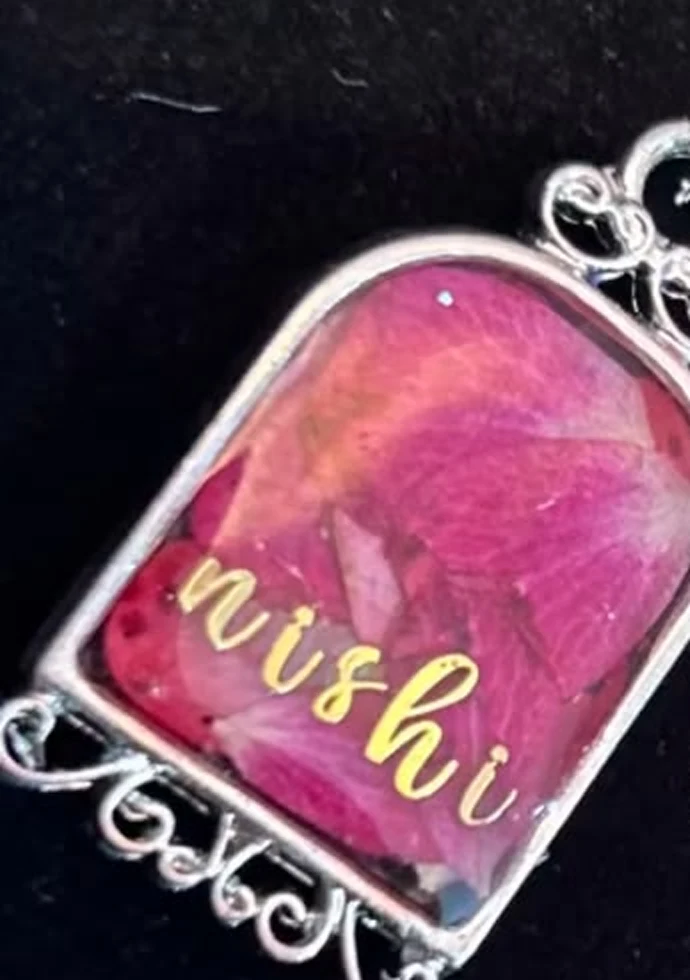
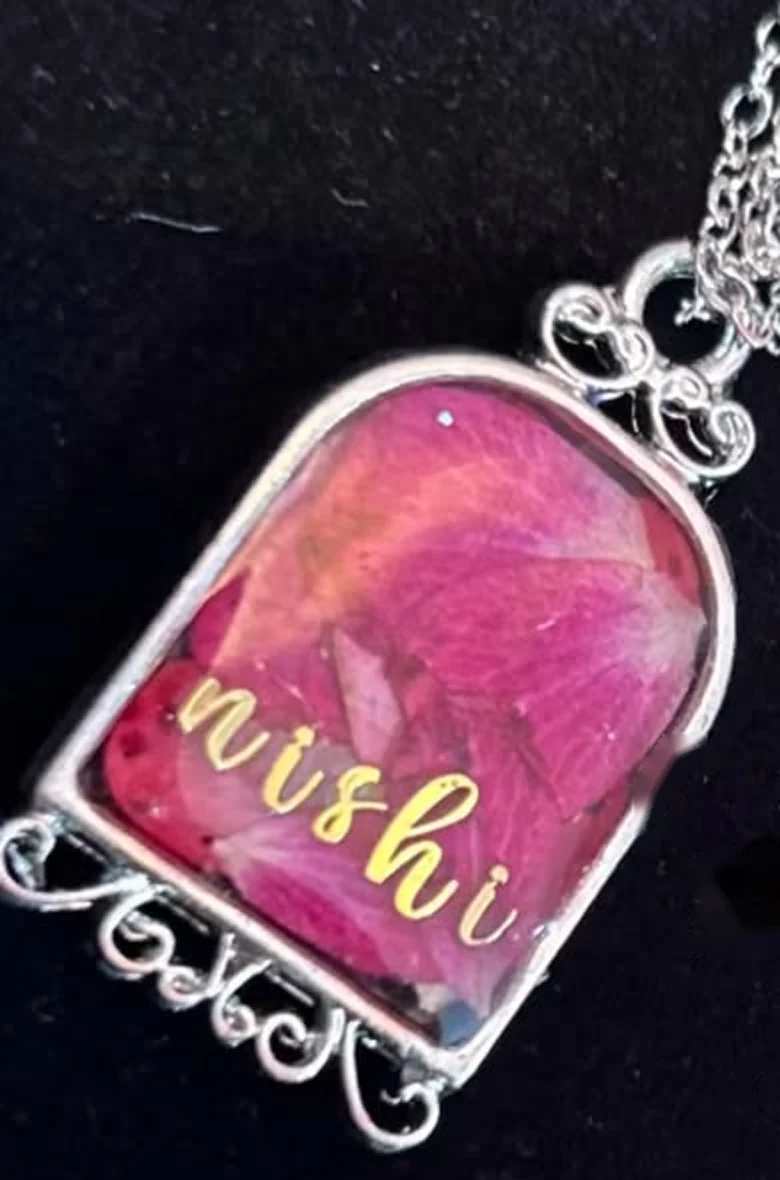
Show the whole name pendant; open films full screen on tap (#31)
- Re-crop the Nishi pendant photo wider so the complete pendant shows,
  with a landscape version on black velvet for the customisation card.
- Tapping a film now opens it full screen with controls, turning phones
  to landscape where the browser allows; controls hide again on exit.

Claude-Session: https://claude.ai/code/session_014M7MAr8Mwe8YGKys3HYAeP

diff --git a/index.html b/index.html
@@ -1,6 +1,6 @@
 <!DOCTYPE html>
 <html lang="en">
-<head><meta charset="UTF-8"><meta name="viewport" content="width=device-width,initial-scale=1"><meta name="theme-color" content="#f5f1e9"><title>Mystic Moldings — Resin art & flower preservation</title><link rel="preconnect" href="https://fonts.googleapis.com"><link rel="preconnect" href="https://fonts.gstatic.com" crossorigin><link href="https://fonts.googleapis.com/css2?family=DM+Sans:wght@400;500;600;700&family=Manrope:wght@400;500;600&family=Playfair+Display:ital,wght@0,400;0,500;0,600;1,400;1,500&display=swap" rel="stylesheet"><meta name="description" content="Mystic Moldings: handcrafted resin art and flower preservation. Demi-fine jewellery, custom décor and personalised gifts for loved ones. DM @mystic_moldings on Instagram to order."><link rel="icon" type="image/png" sizes="64x64" href="images/favicon-64.png"><link rel="apple-touch-icon" href="images/logo-192.png"><link rel="stylesheet" href="styles.css?v=202609290758"></head>
+<head><meta charset="UTF-8"><meta name="viewport" content="width=device-width,initial-scale=1"><meta name="theme-color" content="#f5f1e9"><title>Mystic Moldings — Resin art & flower preservation</title><link rel="preconnect" href="https://fonts.googleapis.com"><link rel="preconnect" href="https://fonts.gstatic.com" crossorigin><link href="https://fonts.googleapis.com/css2?family=DM+Sans:wght@400;500;600;700&family=Manrope:wght@400;500;600&family=Playfair+Display:ital,wght@0,400;0,500;0,600;1,400;1,500&display=swap" rel="stylesheet"><meta name="description" content="Mystic Moldings: handcrafted resin art and flower preservation. Demi-fine jewellery, custom décor and personalised gifts for loved ones. DM @mystic_moldings on Instagram to order."><link rel="icon" type="image/png" sizes="64x64" href="images/favicon-64.png"><link rel="apple-touch-icon" href="images/logo-192.png"><link rel="stylesheet" href="styles.css?v=202609290941"></head>
 <body>
 <div class="announcement">Handcrafted resin art & flower preservation. <span>DM us on Instagram to order.</span></div>
 <header class="header"><a class="wordmark" href="#" aria-label="Mystic Moldings home"><img class="brand-logo" src="images/logo-header.webp" width="160" height="160" alt="">mystic moldings<span>RESIN ART & KEEPSAKES</span></a><nav aria-label="Main navigation"><a href="#collections">Our collections</a><a href="#keepsakes">Your memories, preserved</a><a href="#about">Our story</a><a href="contact.html">Contact</a></nav><a class="bag-button" id="open-bag" href="cart.html" aria-label="Open your cart">Cart <span id="bag-count">0</span><svg viewBox="0 0 24 24" fill="none" stroke="currentColor" stroke-width="1.4"><path d="M5 8h14l1 13H4L5 8Z"/><path d="M8 9V6a4 4 0 0 1 8 0v3"/></svg></a></header>
@@ -12,7 +12,7 @@
 <section class="sold-out section" aria-labelledby="sold-title"><div class="section-top"><div><p class="eyebrow">LOVED &amp; GONE</p><h2 id="sold-title">Sold out,<br><em>but never forgotten.</em></h2></div><div class="craft-films-aside"><p>Some pieces find their home within hours. Fell for one of these? We can make something just like it for you.</p><a class="text-link" href="https://www.instagram.com/mystic_moldings/" target="_blank" rel="noopener noreferrer">DM us for a similar piece <span aria-hidden="true">↗</span></a></div></div><div class="sold-grid"><figure><img src="images/photos/sold-sunflower-pendant.webp" alt="Sunflower pendant, sold out" loading="lazy"><span class="sold-chip">Sold out</span><figcaption>Sunflower pendant</figcaption></figure><figure><img src="images/photos/sold-flower-pendant.webp" alt="Real flower pendant, sold out" loading="lazy"><span class="sold-chip">Sold out</span><figcaption>Real flower pendant</figcaption></figure><figure><img src="images/photos/sold-fern-orb.webp" alt="Glow-in-the-dark fern, sold out" loading="lazy"><span class="sold-chip">Sold out</span><figcaption>Glow-in-the-dark fern</figcaption></figure><figure><img src="images/photos/sold-glitter-pendant.webp" alt="Rose-gold glitter pendant, sold out" loading="lazy"><span class="sold-chip">Sold out</span><figcaption>Rose-gold glitter pendant</figcaption></figure><figure><img src="images/photos/sold-rose-bookmark.webp" alt="Real rose bookmark, sold out" loading="lazy"><span class="sold-chip">Sold out</span><figcaption>Real rose bookmark</figcaption></figure><figure><img src="images/photos/sold-heart-charm-bracelet.webp" alt="Heart charm bracelet, sold out" loading="lazy"><span class="sold-chip">Sold out</span><figcaption>Heart charm bracelet</figcaption></figure></div></section>
 <section class="date-night section" aria-labelledby="date-night-title"><div class="date-night-image"><img src="images/photos/date-night-poster.webp" alt="Mystic Moldings poster: a gold pendant holding a pressed daisy and wildflowers, on red velvet, with the words Enjoy your perfect date" loading="lazy"></div><div class="date-night-copy"><p class="eyebrow">THE DATE-NIGHT EDIT</p><h2 id="date-night-title">Enjoy your perfect date.<br><em>Then keep it forever.</em></h2><p>Gift a pressed-flower pendant for the evening, or bring us the flowers from it and we’ll hold them in resin for good. Either way, the night stays with you.</p><div class="date-night-actions"><a class="button dark" href="#shop" data-shop-filter="Necklaces">Shop necklaces <span>↗</span></a><button class="text-link" data-keepsake="Rose / flower bouquet">Preserve your date flowers <span>↗</span></button></div></div></section>
 <section class="keepsakes section" id="keepsakes"><div class="section-top"><div><p class="eyebrow">BECAUSE IT WAS NEVER JUST A FLOWER</p><h2>A little keepsake.<br><em>A whole lot of meaning.</em></h2></div><p>Every memory has a story.<br>Here’s how yours could live on.</p></div><div class="story-grid"><article class="story-card"><div class="story-image"><img src="images/photos/wedding-flower-lamp-story.webp" alt="A glowing resin night lamp holding preserved wedding roses, pearls and the couple’s names and wedding date" loading="lazy"><span>THE WEDDING KEEPSAKE</span></div><h3>From “I do” to always.</h3><p>The varmala from your wedding. The bouquet you held a little tighter. A piece of that beautiful beginning, preserved for all the days ahead.</p><button class="story-link" data-keepsake="Wedding flowers / varmala">Preserve your wedding flowers <span>↗</span></button></article><article class="story-card"><div class="story-image"><img src="images/photos/ruby-chandbali-earrings.webp" style="object-position:center 56%" alt="Chandbali earrings made with real red rose petals set in resin, framed in kundan crystals with pearl drops, in a beam of light" loading="lazy"><span>THE JUST-BECAUSE FLOWER</span></div><h3>It was never just a rose.</h3><p>A first date. A thoughtful surprise. A flower from someone who knew exactly what to say without saying a word. Some gestures deserve forever.</p><button class="story-link" data-keepsake="Rose / flower bouquet">Keep a special flower <span>↗</span></button></article><article class="story-card"><div class="story-image"><img src="images/photos/petal-name-clutch.webp" style="object-position:center 55%" alt="A bridal resin clutch made with the roses from her proposal, with rose petals, gold leaf and her name in gold" loading="lazy"><span>THE BRIDAL KEEPSAKE</span></div><h3>From “will you?” to “I do.”</h3><p>The roses from her proposal, preserved in resin and turned into the clutch she carries on her wedding day, with her name in gold.</p><button class="story-link" data-keepsake="Other special keepsake">Make a bridal clutch <span>↗</span></button></article></div><p class="story-disclaimer">Stories shown are illustrative inspirations, not customer accounts. Your story will always be yours to share.</p></section>
-<section class="customs section" id="customisations" aria-labelledby="custom-title"><div class="section-top"><div><p class="eyebrow">CUSTOMISATIONS</p><h2 id="custom-title">Made just for them.<br><em>Designed with you.</em></h2></div><p>Searching for something customised?<br>Tell us the idea, and we’ll pour it into being.</p></div><div class="story-grid"><article class="story-card"><div class="story-image"><img src="images/photos/custom-name-pendant.webp" style="object-position:center 55%" alt="" loading="lazy"><span>NAME PENDANT</span></div><h3>A name, in petals.</h3><p>Her name set among real pink petals, sealed in a pendant she’ll never take off.</p><button class="story-link" data-keepsake="Other special keepsake">Personalise a pendant <span>↗</span></button></article><article class="story-card"><div class="story-image"><img src="images/photos/custom-bar-set.webp" alt="" loading="lazy"><span>HOME BAR</span></div><h3>A bar set that’s all yours.</h3><p>Glass holder, bottle stand and coasters, poured in the colours and names you choose.</p><button class="story-link" data-keepsake="Other special keepsake">Plan a bar set <span>↗</span></button></article><article class="story-card"><div class="story-image"><img src="images/photos/custom-ganesha.webp" alt="" loading="lazy"><span>FESTIVE DÉCOR</span></div><h3>Blessings, poured in resin.</h3><p>A rose-red Ganesha to bring home for festivals, housewarmings and new beginnings.</p><button class="story-link" data-keepsake="Other special keepsake">Order a Ganesha <span>↗</span></button></article></div></section>
+<section class="customs section" id="customisations" aria-labelledby="custom-title"><div class="section-top"><div><p class="eyebrow">CUSTOMISATIONS</p><h2 id="custom-title">Made just for them.<br><em>Designed with you.</em></h2></div><p>Searching for something customised?<br>Tell us the idea, and we’ll pour it into being.</p></div><div class="story-grid"><article class="story-card"><div class="story-image"><img src="images/photos/custom-name-pendant-wide.webp" alt="" loading="lazy"><span>NAME PENDANT</span></div><h3>A name, in petals.</h3><p>Her name set among real pink petals, sealed in a pendant she’ll never take off.</p><button class="story-link" data-keepsake="Other special keepsake">Personalise a pendant <span>↗</span></button></article><article class="story-card"><div class="story-image"><img src="images/photos/custom-bar-set.webp" alt="" loading="lazy"><span>HOME BAR</span></div><h3>A bar set that’s all yours.</h3><p>Glass holder, bottle stand and coasters, poured in the colours and names you choose.</p><button class="story-link" data-keepsake="Other special keepsake">Plan a bar set <span>↗</span></button></article><article class="story-card"><div class="story-image"><img src="images/photos/custom-ganesha.webp" alt="" loading="lazy"><span>FESTIVE DÉCOR</span></div><h3>Blessings, poured in resin.</h3><p>A rose-red Ganesha to bring home for festivals, housewarmings and new beginnings.</p><button class="story-link" data-keepsake="Other special keepsake">Order a Ganesha <span>↗</span></button></article></div></section>
 <section class="date-night festive section" aria-labelledby="festive-title"><div class="date-night-image"><img src="images/photos/festive-table-tops.webp" alt="Three resin table tops with gold Ganesh, lotus and Om motifs on crushed-stone bases, with the words Bring divine blessings home" loading="lazy"></div><div class="date-night-copy"><p class="eyebrow">THE FESTIVE EDIT</p><h2 id="festive-title">Festive décor,<br><em>poured with devotion.</em></h2><p>Ganesh, lotus and Om table tops in hand-poured resin, finished in gold and set on crushed-stone bases. A little light for Navratri, Diwali and every celebration in between.</p><div class="date-night-actions"><a class="button dark" href="#shop" data-shop-filter="Home décor">Shop home décor <span>↗</span></a><a class="text-link" href="https://www.instagram.com/mystic_moldings/" target="_blank" rel="noopener noreferrer">DM to order <span aria-hidden="true">↗</span></a></div></div></section>
 <section class="craft-films section" id="behind-the-craft" aria-labelledby="craft-films-title"><div class="section-top"><div><p class="eyebrow">BEHIND THE CRAFT</p><h2 id="craft-films-title">Handmade details,<br><em>captured up close.</em></h2></div><div class="craft-films-aside"><p>Real pieces from our studio. Every pour, every petal and every little glint of gold, placed by hand.</p><a class="text-link" href="https://www.instagram.com/mystic_moldings/" target="_blank" rel="noopener noreferrer">See more on Instagram <span aria-hidden="true">↗</span></a></div></div><div class="craft-films-row"><figure class="craft-film"><div class="craft-film-frame"><video autoplay muted loop playsinline preload="metadata" poster="videos/product-video-02-poster.jpg" style="object-position:50% 40%" aria-label="Pressed-flower resin earrings with pearl tassels, hanging among green leaves"><source data-src="videos/product-video-02.mp4" type="video/mp4"></video><button class="film-toggle" type="button" aria-label="Pause the pressed-flower earrings film"></button></div><figcaption><h3>Pressed-flower earrings</h3><p>A real rose, sealed in resin</p></figcaption></figure><figure class="craft-film"><div class="craft-film-frame"><video autoplay muted loop playsinline preload="metadata" poster="videos/product-video-01-poster.jpg" style="object-position:46% 50%" aria-label="A resin puja platter with a gold Ganesha, kundan stones and gold flakes"><source data-src="videos/product-video-01.mp4" type="video/mp4"></video><button class="film-toggle" type="button" aria-label="Pause the festive puja platter film"></button></div><figcaption><h3>Festive puja platter</h3><p>Gold leaf, kundan and a little Ganesha</p></figcaption></figure><figure class="craft-film"><div class="craft-film-frame"><video autoplay muted loop playsinline preload="metadata" poster="videos/product-video-03-poster.jpg" style="object-position:50% 50%" aria-label="A blue resin Mahakumbh coaster holding a small glass vial"><source data-src="videos/product-video-03.mp4" type="video/mp4"></video><button class="film-toggle" type="button" aria-label="Pause the mahakumbh keepsake film"></button></div><figcaption><h3>Mahakumbh keepsake</h3><p>A tiny vial, held in ocean-blue resin</p></figcaption></figure><figure class="craft-film"><div class="craft-film-frame"><video autoplay muted loop playsinline preload="metadata" poster="videos/product-video-04-poster.jpg" style="object-position:60% 50%" aria-label="Blue resin flowers on a wall piece lit by a ring of warm lights"><source data-src="videos/product-video-04.mp4" type="video/mp4"></video><button class="film-toggle" type="button" aria-label="Pause the illuminated floral wall art film"></button></div><figcaption><h3>Illuminated floral wall art</h3><p>Hand-poured petals, softly lit</p></figcaption></figure><figure class="craft-film"><div class="craft-film-frame"><video autoplay muted loop playsinline preload="metadata" poster="videos/making-bar-set-poster.jpg" aria-label="Pouring glitter resin into a wine-glass stand mould and making a matching ash tray"><source data-src="videos/making-bar-set.mp4" type="video/mp4"></video><button class="film-toggle" type="button" aria-label="Pause the making a bar set film"></button></div><figcaption><h3>Making a bar set</h3><p>Wine-glass stand, ash tray and coasters, poured by hand</p></figcaption></figure><figure class="craft-film"><div class="craft-film-frame"><video autoplay muted loop playsinline preload="metadata" poster="videos/live-session-poster.jpg" aria-label="A customer designing her own resin jewellery live at our exhibition stall"><source data-src="videos/live-session.mp4" type="video/mp4"></video><button class="film-toggle" type="button" aria-label="Pause the make your own, live film"></button></div><figcaption><h3>Make your own, live</h3><p>Design a piece for yourself or someone you love, right at our stall</p></figcaption></figure><figure class="craft-film"><div class="craft-film-frame"><video autoplay muted loop playsinline preload="metadata" poster="videos/pendant-flatlay-poster.jpg" aria-label="Resin pendants, earrings and a key keychain laid out on a pink cloth"><source data-src="videos/pendant-flatlay.mp4" type="video/mp4"></video><button class="film-toggle" type="button" aria-label="Pause the a table of treasures film"></button></div><figcaption><h3>A table of treasures</h3><p>Butterflies, moons and keys, all set in real petals</p></figcaption></figure></div></section>
 <section class="process section" id="about"><div class="process-intro"><p class="eyebrow">FROM YOUR HANDS, TO OUR HEARTS</p><h2>Something meaningful.<br><em>Something truly yours.</em></h2><p>At Mystic Moldings, we believe the most beautiful things aren’t just seen. They’re felt. We bring a little patience, care, and craftsmanship to the moments you want to keep.</p><button class="button dark" data-keepsake="Other special keepsake">Let’s make something personal <span>↗</span></button></div><div class="steps"><div><span>01</span><article><h3>Tell us your story</h3><p>Share what you’d like to preserve and what you have in mind. We’ll dream up the details together.</p></article></div><div><span>02</span><article><h3>Send a little piece of it</h3><p>Once we’ve agreed on a design, we’ll guide you on safely packing and sending your keepsake.</p></article></div><div><span>03</span><article><h3>Keep it close, forever</h3><p>We carefully create your one-of-a-kind piece, ready to find a special place in your home or heart.</p></article></div></div></section>
@@ -22,5 +22,5 @@
 <section class="instagram-section section" aria-labelledby="instagram-title"><div><p class="eyebrow">LET’S STAY A LITTLE CLOSER</p><h2 id="instagram-title">More little moments.<br><em>Find us on Instagram.</em></h2><p>Over 1,200 people follow along for new pieces, customisations, exhibitions and love notes. See what’s just sold out, then DM us to order something that means something to you.</p></div><div class="instagram-invite"><svg viewBox="0 0 24 24" fill="none" stroke="currentColor" stroke-width="1.5" aria-hidden="true"><rect x="3" y="3" width="18" height="18" rx="5"/><circle cx="12" cy="12" r="4"/><circle cx="17.5" cy="6.5" r=".8" fill="currentColor" stroke="none"/></svg><p>Our little corner of Instagram</p><p class="instagram-stats">1,200+ followers · DM to order</p><a class="instagram-link" href="https://www.instagram.com/mystic_moldings/" target="_blank" rel="noopener noreferrer" aria-label="Mystic Moldings on Instagram (opens in a new tab)"><svg viewBox="0 0 24 24" fill="none" stroke="currentColor" stroke-width="1.5" aria-hidden="true"><rect x="3" y="3" width="18" height="18" rx="5"/><circle cx="12" cy="12" r="4"/><circle cx="17.5" cy="6.5" r=".8" fill="currentColor" stroke="none"/></svg><span>@mystic_moldings</span><span aria-hidden="true">↗</span></a></div><div class="studio-strip"><p class="eyebrow">FROM OUR STUDIO</p><div class="studio-grid"><a href="https://www.instagram.com/mystic_moldings/" target="_blank" rel="noopener noreferrer" aria-label="A daisy and wildflower pendant on red velvet — view more on Instagram (opens in a new tab)"><img src="images/photos/studio-daisy-pendant.webp" alt="" loading="lazy"></a><a href="https://www.instagram.com/mystic_moldings/" target="_blank" rel="noopener noreferrer" aria-label="A sunflower pendant on black velvet — view more on Instagram (opens in a new tab)"><img src="images/photos/studio-sunflower.webp" alt="" loading="lazy"></a><a href="https://www.instagram.com/mystic_moldings/" target="_blank" rel="noopener noreferrer" aria-label="Pink bloom jhumkas beside a string of pearls — view more on Instagram (opens in a new tab)"><img src="images/photos/studio-jhumkas.webp" alt="" loading="lazy"></a><a href="https://www.instagram.com/mystic_moldings/" target="_blank" rel="noopener noreferrer" aria-label="A red butterfly and rose keychain on stone — view more on Instagram (opens in a new tab)"><img src="images/photos/studio-butterfly-keychain.webp" alt="" loading="lazy"></a><a href="https://www.instagram.com/mystic_moldings/" target="_blank" rel="noopener noreferrer" aria-label="Bow-shaped resin studs on a jute potli among bougainvillea — view more on Instagram (opens in a new tab)"><img src="images/photos/studio-potli-studs.webp" alt="" loading="lazy"></a><a href="https://www.instagram.com/mystic_moldings/" target="_blank" rel="noopener noreferrer" aria-label="Ruby bloom chandbalis in a beam of light — view more on Instagram (opens in a new tab)"><img src="images/photos/ruby-chandbali-earrings.webp" alt="" loading="lazy"></a><a href="https://www.instagram.com/mystic_moldings/" target="_blank" rel="noopener noreferrer" aria-label="Preserved roses and baby’s breath on stone — view more on Instagram (opens in a new tab)"><img src="images/photos/studio-roses-brand.webp" alt="" loading="lazy"></a><a href="https://www.instagram.com/mystic_moldings/" target="_blank" rel="noopener noreferrer" aria-label="A half-daisy pendant on weathered wood — view more on Instagram (opens in a new tab)"><img src="images/photos/studio-half-daisy.webp" alt="" loading="lazy"></a><a href="https://www.instagram.com/mystic_moldings/" target="_blank" rel="noopener noreferrer" aria-label="A royal-blue filigree ring among bougainvillea — view more on Instagram (opens in a new tab)"><img src="images/photos/filigree-ring-3.webp" alt="" loading="lazy"></a><a href="https://www.instagram.com/mystic_moldings/" target="_blank" rel="noopener noreferrer" aria-label="Oxidised ruby jhumkas in the afternoon sun — view more on Instagram (opens in a new tab)"><img src="images/photos/oxidised-ruby-jhumkas-2.webp" alt="" loading="lazy"></a></div></div></section>
 </main><footer><div><a class="wordmark" href="#"><img class="brand-logo" src="images/logo-header.webp" width="160" height="160" alt="">mystic moldings<span>RESIN ART & KEEPSAKES</span></a><p>Made by hand. Held by heart.</p><a class="instagram-link" href="https://www.instagram.com/mystic_moldings/" target="_blank" rel="noopener noreferrer" aria-label="Mystic Moldings on Instagram (opens in a new tab)"><svg viewBox="0 0 24 24" fill="none" stroke="currentColor" stroke-width="1.5" aria-hidden="true"><rect x="3" y="3" width="18" height="18" rx="5"/><circle cx="12" cy="12" r="4"/><circle cx="17.5" cy="6.5" r=".8" fill="currentColor" stroke="none"/></svg><span>@mystic_moldings</span><span aria-hidden="true">↗</span></a></div><div class="footer-links"><a href="#shop">Ready-made pieces</a><a href="#keepsakes">Personalised keepsakes</a><a href="#about">Our story</a><a href="contact.html">Contact</a></div><div class="footer-bottom"><span>© <span id="year"></span> Mystic Moldings</span><span>A little beauty. A little feeling. A little forever.</span></div></footer>
 
-<dialog id="custom-dialog"><div class="dialog-heading"><h2>Start <em>your story.</em></h2><button class="close" data-close aria-label="Close personalisation form">×</button></div><p class="form-intro">A few little details to imagine your one-of-a-kind keepsake.</p><form id="custom-form"><label>Your name<input name="name" required maxlength="80" autocomplete="name" placeholder="What should we call you?"></label><label>Email address<input name="email" type="email" required autocomplete="email" placeholder="you@example.com"></label><label>What would you like to preserve?<select name="keepsake"><option>Wedding flowers / varmala</option><option>Rose / flower bouquet</option><option>Pet hair keepsake</option><option>Other special keepsake</option></select></label><label>A little about your idea<textarea name="story" rows="3" maxlength="2000" placeholder="A favourite shape, a meaningful detail, or the story behind it…"></textarea></label><p class="dialog-note">This form saves a draft only. Download your idea, then visit <a href="https://www.instagram.com/mystic_moldings/" target="_blank" rel="noopener noreferrer">@mystic_moldings on Instagram ↗</a> to share it in a message. Nothing is sent automatically.</p><button class="button dark full" type="submit">Download my enquiry <span>↓</span></button><p id="form-status" role="status"></p></form></dialog><div class="toast" id="toast" role="status"></div><script src="script.js?v=202609290758"></script>
+<dialog id="custom-dialog"><div class="dialog-heading"><h2>Start <em>your story.</em></h2><button class="close" data-close aria-label="Close personalisation form">×</button></div><p class="form-intro">A few little details to imagine your one-of-a-kind keepsake.</p><form id="custom-form"><label>Your name<input name="name" required maxlength="80" autocomplete="name" placeholder="What should we call you?"></label><label>Email address<input name="email" type="email" required autocomplete="email" placeholder="you@example.com"></label><label>What would you like to preserve?<select name="keepsake"><option>Wedding flowers / varmala</option><option>Rose / flower bouquet</option><option>Pet hair keepsake</option><option>Other special keepsake</option></select></label><label>A little about your idea<textarea name="story" rows="3" maxlength="2000" placeholder="A favourite shape, a meaningful detail, or the story behind it…"></textarea></label><p class="dialog-note">This form saves a draft only. Download your idea, then visit <a href="https://www.instagram.com/mystic_moldings/" target="_blank" rel="noopener noreferrer">@mystic_moldings on Instagram ↗</a> to share it in a message. Nothing is sent automatically.</p><button class="button dark full" type="submit">Download my enquiry <span>↓</span></button><p id="form-status" role="status"></p></form></dialog><div class="toast" id="toast" role="status"></div><script src="script.js?v=202609290941"></script>
 </body></html>

diff --git a/cart.html b/cart.html
@@ -1,6 +1,6 @@
 <!DOCTYPE html>
 <html lang="en">
-<head><meta charset="UTF-8"><meta name="viewport" content="width=device-width,initial-scale=1"><meta name="theme-color" content="#f5f1e9"><title>Your cart — Mystic Moldings</title><link rel="preconnect" href="https://fonts.googleapis.com"><link rel="preconnect" href="https://fonts.gstatic.com" crossorigin><link href="https://fonts.googleapis.com/css2?family=DM+Sans:wght@400;500;600;700&family=Manrope:wght@400;500;600&family=Playfair+Display:ital,wght@0,400;0,500;0,600;1,400;1,500&display=swap" rel="stylesheet"><meta name="description" content="Mystic Moldings: handcrafted resin art and flower preservation. Demi-fine jewellery, custom décor and personalised gifts for loved ones. DM @mystic_moldings on Instagram to order."><link rel="icon" type="image/png" sizes="64x64" href="images/favicon-64.png"><link rel="apple-touch-icon" href="images/logo-192.png"><link rel="stylesheet" href="styles.css?v=202609290758"></head>
+<head><meta charset="UTF-8"><meta name="viewport" content="width=device-width,initial-scale=1"><meta name="theme-color" content="#f5f1e9"><title>Your cart — Mystic Moldings</title><link rel="preconnect" href="https://fonts.googleapis.com"><link rel="preconnect" href="https://fonts.gstatic.com" crossorigin><link href="https://fonts.googleapis.com/css2?family=DM+Sans:wght@400;500;600;700&family=Manrope:wght@400;500;600&family=Playfair+Display:ital,wght@0,400;0,500;0,600;1,400;1,500&display=swap" rel="stylesheet"><meta name="description" content="Mystic Moldings: handcrafted resin art and flower preservation. Demi-fine jewellery, custom décor and personalised gifts for loved ones. DM @mystic_moldings on Instagram to order."><link rel="icon" type="image/png" sizes="64x64" href="images/favicon-64.png"><link rel="apple-touch-icon" href="images/logo-192.png"><link rel="stylesheet" href="styles.css?v=202609290941"></head>
 <body>
 
 <div class="announcement">Made by hand. Held by heart. <span>A little piece of forever.</span></div>
@@ -56,6 +56,6 @@
 </section>
 </main><footer><div><a class="wordmark" href="index.html"><img class="brand-logo" src="images/logo-header.webp" width="160" height="160" alt="">mystic moldings<span>RESIN ART & KEEPSAKES</span></a><p>Made by hand. Held by heart.</p><a class="instagram-link" href="https://www.instagram.com/mystic_moldings/" target="_blank" rel="noopener noreferrer" aria-label="Mystic Moldings on Instagram (opens in a new tab)"><svg viewBox="0 0 24 24" fill="none" stroke="currentColor" stroke-width="1.5" aria-hidden="true"><rect x="3" y="3" width="18" height="18" rx="5"/><circle cx="12" cy="12" r="4"/><circle cx="17.5" cy="6.5" r=".8" fill="currentColor" stroke="none"/></svg><span>@mystic_moldings</span><span aria-hidden="true">↗</span></a></div><div class="footer-links"><a href="index.html#shop">Ready-made pieces</a><a href="index.html#keepsakes">Personalised keepsakes</a><a href="index.html#about">Our story</a><a href="contact.html">Contact</a></div><div class="footer-bottom"><span>© <span id="year"></span> Mystic Moldings</span><span>A little beauty. A little feeling. A little forever.</span></div></footer>
 <div class="toast" id="toast" role="status"></div>
-<script src="script.js?v=202609290758"></script><script src="cart.js?v=202609290758"></script>
+<script src="script.js?v=202609290941"></script><script src="cart.js?v=202609290941"></script>
 </body>
 </html>

diff --git a/contact.html b/contact.html
@@ -1,6 +1,6 @@
 <!DOCTYPE html>
 <html lang="en">
-<head><meta charset="UTF-8"><meta name="viewport" content="width=device-width,initial-scale=1"><meta name="theme-color" content="#f5f1e9"><title>Contact — Mystic Moldings</title><link rel="preconnect" href="https://fonts.googleapis.com"><link rel="preconnect" href="https://fonts.gstatic.com" crossorigin><link href="https://fonts.googleapis.com/css2?family=DM+Sans:wght@400;500;600;700&family=Manrope:wght@400;500;600&family=Playfair+Display:ital,wght@0,400;0,500;0,600;1,400;1,500&display=swap" rel="stylesheet"><meta name="description" content="Mystic Moldings: handcrafted resin art and flower preservation. Demi-fine jewellery, custom décor and personalised gifts for loved ones. DM @mystic_moldings on Instagram to order."><link rel="icon" type="image/png" sizes="64x64" href="images/favicon-64.png"><link rel="apple-touch-icon" href="images/logo-192.png"><link rel="stylesheet" href="styles.css?v=202609290758"></head>
+<head><meta charset="UTF-8"><meta name="viewport" content="width=device-width,initial-scale=1"><meta name="theme-color" content="#f5f1e9"><title>Contact — Mystic Moldings</title><link rel="preconnect" href="https://fonts.googleapis.com"><link rel="preconnect" href="https://fonts.gstatic.com" crossorigin><link href="https://fonts.googleapis.com/css2?family=DM+Sans:wght@400;500;600;700&family=Manrope:wght@400;500;600&family=Playfair+Display:ital,wght@0,400;0,500;0,600;1,400;1,500&display=swap" rel="stylesheet"><meta name="description" content="Mystic Moldings: handcrafted resin art and flower preservation. Demi-fine jewellery, custom décor and personalised gifts for loved ones. DM @mystic_moldings on Instagram to order."><link rel="icon" type="image/png" sizes="64x64" href="images/favicon-64.png"><link rel="apple-touch-icon" href="images/logo-192.png"><link rel="stylesheet" href="styles.css?v=202609290941"></head>
 <body>
 
 <div class="announcement">Made by hand. Held by heart. <span>A little piece of forever.</span></div>
@@ -48,5 +48,5 @@
 </main><footer><div><a class="wordmark" href="index.html"><img class="brand-logo" src="images/logo-header.webp" width="160" height="160" alt="">mystic moldings<span>RESIN ART & KEEPSAKES</span></a><p>Made by hand. Held by heart.</p><a class="instagram-link" href="https://www.instagram.com/mystic_moldings/" target="_blank" rel="noopener noreferrer" aria-label="Mystic Moldings on Instagram (opens in a new tab)"><svg viewBox="0 0 24 24" fill="none" stroke="currentColor" stroke-width="1.5" aria-hidden="true"><rect x="3" y="3" width="18" height="18" rx="5"/><circle cx="12" cy="12" r="4"/><circle cx="17.5" cy="6.5" r=".8" fill="currentColor" stroke="none"/></svg><span>@mystic_moldings</span><span aria-hidden="true">↗</span></a></div><div class="footer-links"><a href="index.html#shop">Ready-made pieces</a><a href="index.html#keepsakes">Personalised keepsakes</a><a href="index.html#about">Our story</a><a href="contact.html">Contact</a></div><div class="footer-bottom"><span>© <span id="year"></span> Mystic Moldings</span><span>A little beauty. A little feeling. A little forever.</span></div></footer>
 
 <div class="toast" id="toast" role="status"></div>
-<script src="script.js?v=202609290758"></script><script src="contact.js?v=202609290758"></script>
+<script src="script.js?v=202609290941"></script><script src="contact.js?v=202609290941"></script>
 </body></html>

diff --git a/script.js b/script.js
@@ -91,6 +91,29 @@ const yearEl = document.querySelector('#year'); if (yearEl) yearEl.textContent =
 document.querySelectorAll('[data-filter]').forEach(button => button.setAttribute('aria-pressed', button.classList.contains('active')));
 if (document.querySelector('#products')) renderProducts();
 updateBag();
+// Tapping a film opens it full screen, turning phones to landscape where the browser allows it.
+async function openFullscreen(film) {
+  const v = film.video;
+  const source = v.querySelector('source[data-src]');
+  if (source) { source.src = source.dataset.src; source.removeAttribute('data-src'); v.load(); }
+  film.held = false;
+  v.controls = true;
+  v.play().catch(() => {});
+  try {
+    if (v.requestFullscreen) await v.requestFullscreen();
+    else if (v.webkitRequestFullscreen) v.webkitRequestFullscreen();
+    else if (v.webkitEnterFullscreen) { v.webkitEnterFullscreen(); return; }
+    await screen.orientation?.lock?.('landscape');
+  } catch {}
+}
+function leaveFullscreen() {
+  if (document.fullscreenElement || document.webkitFullscreenElement) return;
+  try { screen.orientation?.unlock?.(); } catch {}
+  document.querySelectorAll('.craft-film video[controls]').forEach(v => { v.controls = false; });
+}
+document.addEventListener('fullscreenchange', leaveFullscreen);
+document.addEventListener('webkitfullscreenchange', leaveFullscreen);
+document.querySelectorAll('.craft-film video').forEach(v => v.addEventListener('webkitendfullscreen', () => { v.controls = false; }));
 // Behind-the-craft films: attach each source only as it nears the viewport, play while on screen, and let visitors tap to pause or play.
 const films = [...document.querySelectorAll('.craft-film')].map(card => ({ card, video: card.querySelector('video'), button: card.querySelector('.film-toggle'), label: card.querySelector('h3').textContent.toLowerCase(), onScreen: false, held: false }));
 if (films.length) {
@@ -101,7 +124,7 @@ if (films.length) {
     ['play', 'pause'].forEach(type => film.video.addEventListener(type, () => show(film)));
     const toggle = () => { load(film); if (film.video.paused) { film.held = false; film.video.play().catch(() => show(film)); } else { film.held = true; film.video.pause(); } };
     film.button.addEventListener('click', toggle);
-    film.video.addEventListener('click', toggle);
+    film.video.addEventListener('click', () => openFullscreen(film));
     show(film);
   });
   if ('IntersectionObserver' in window) {

diff --git a/styles.css b/styles.css
@@ -79,3 +79,4 @@
 .craft-films-row{grid-template-columns:repeat(3,1fr)}.craft-film:nth-child(even){margin-top:0}.craft-film:nth-child(3n+2){margin-top:56px}
 @media(max-width:700px){.craft-film:nth-child(3n+2){margin-top:0}}
 .exhibition-films{grid-column:1/-1;margin-top:10px}
+.craft-film video{cursor:zoom-in}.craft-film video:fullscreen{object-fit:contain;background:#000}.craft-film video:-webkit-full-screen{object-fit:contain;background:#000}
